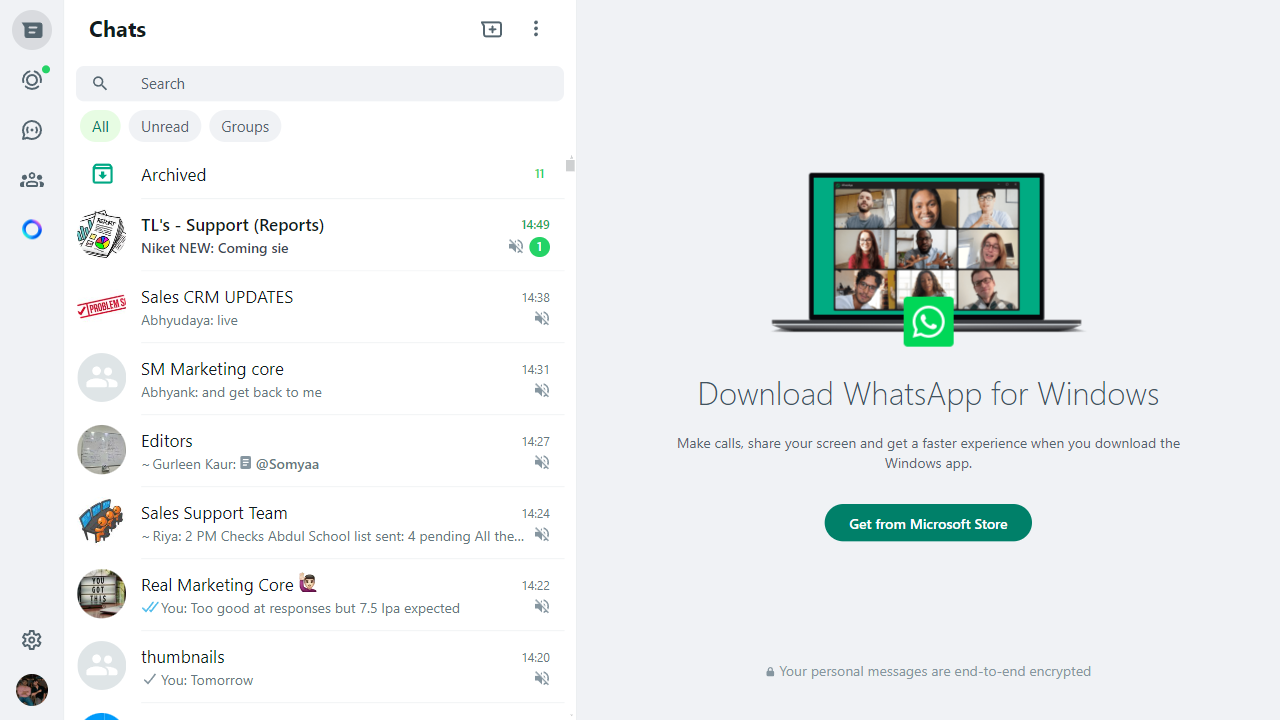
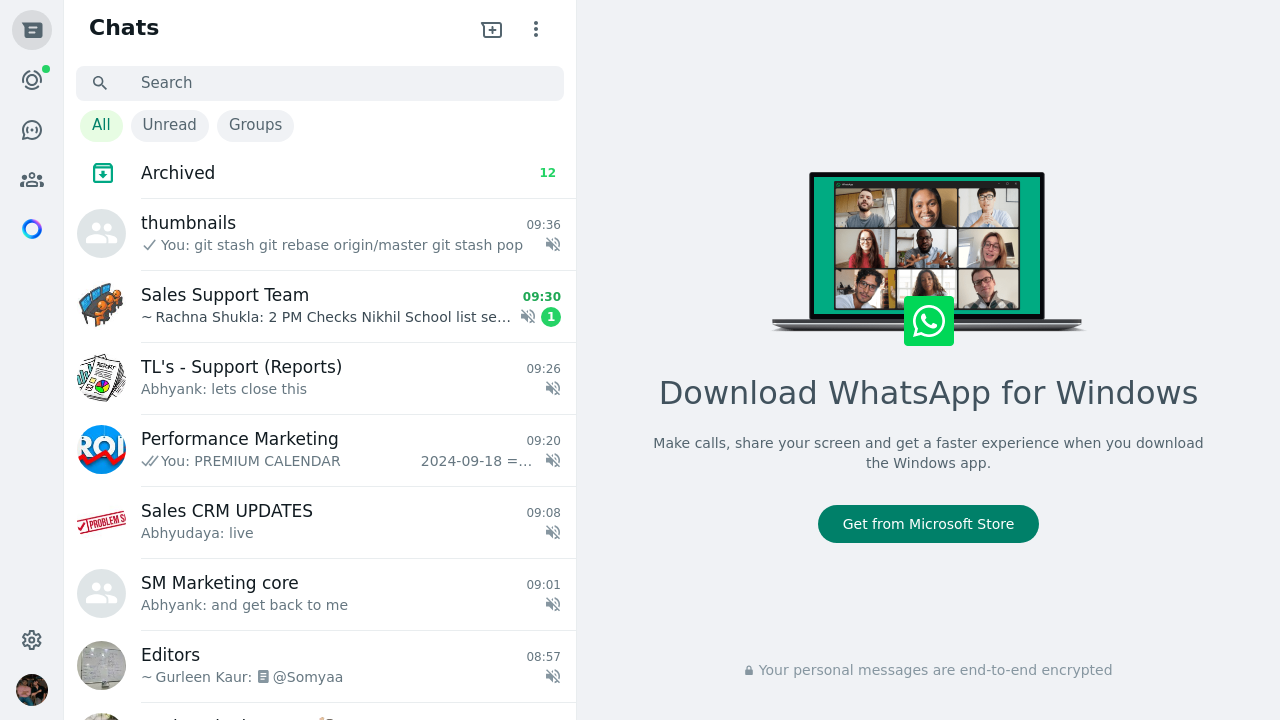
increased initial timer

diff --git a/backend/whatsapp_session.py b/backend/whatsapp_session.py
@@ -21,7 +21,7 @@ def playwright_worker():
         page.goto("https://web.whatsapp.com/")
         print("Playwright browser started and running in a separate thread.")
 
-        time.sleep(20)
+        time.sleep(30)
         # Take a screenshot after the page is fully loaded
         page.screenshot(path="whatsapp_screenshot_2.png")
         print("Playwright monitor session started and running and took ss2.")

diff --git a/backend/whatsapp_monitor.py b/backend/whatsapp_monitor.py
@@ -22,7 +22,7 @@ async def whatsapp_monitor():
         print("Playwright monitor browser started and running.")
         
 
-        time.sleep(20)
+        time.sleep(30)
         # Take a screenshot after the page is fully loaded
         await page.screenshot(path="whatsapp_screenshot_1.png")
         print("Screenshot taken and saved as 'whatsapp_screenshot.png'")
